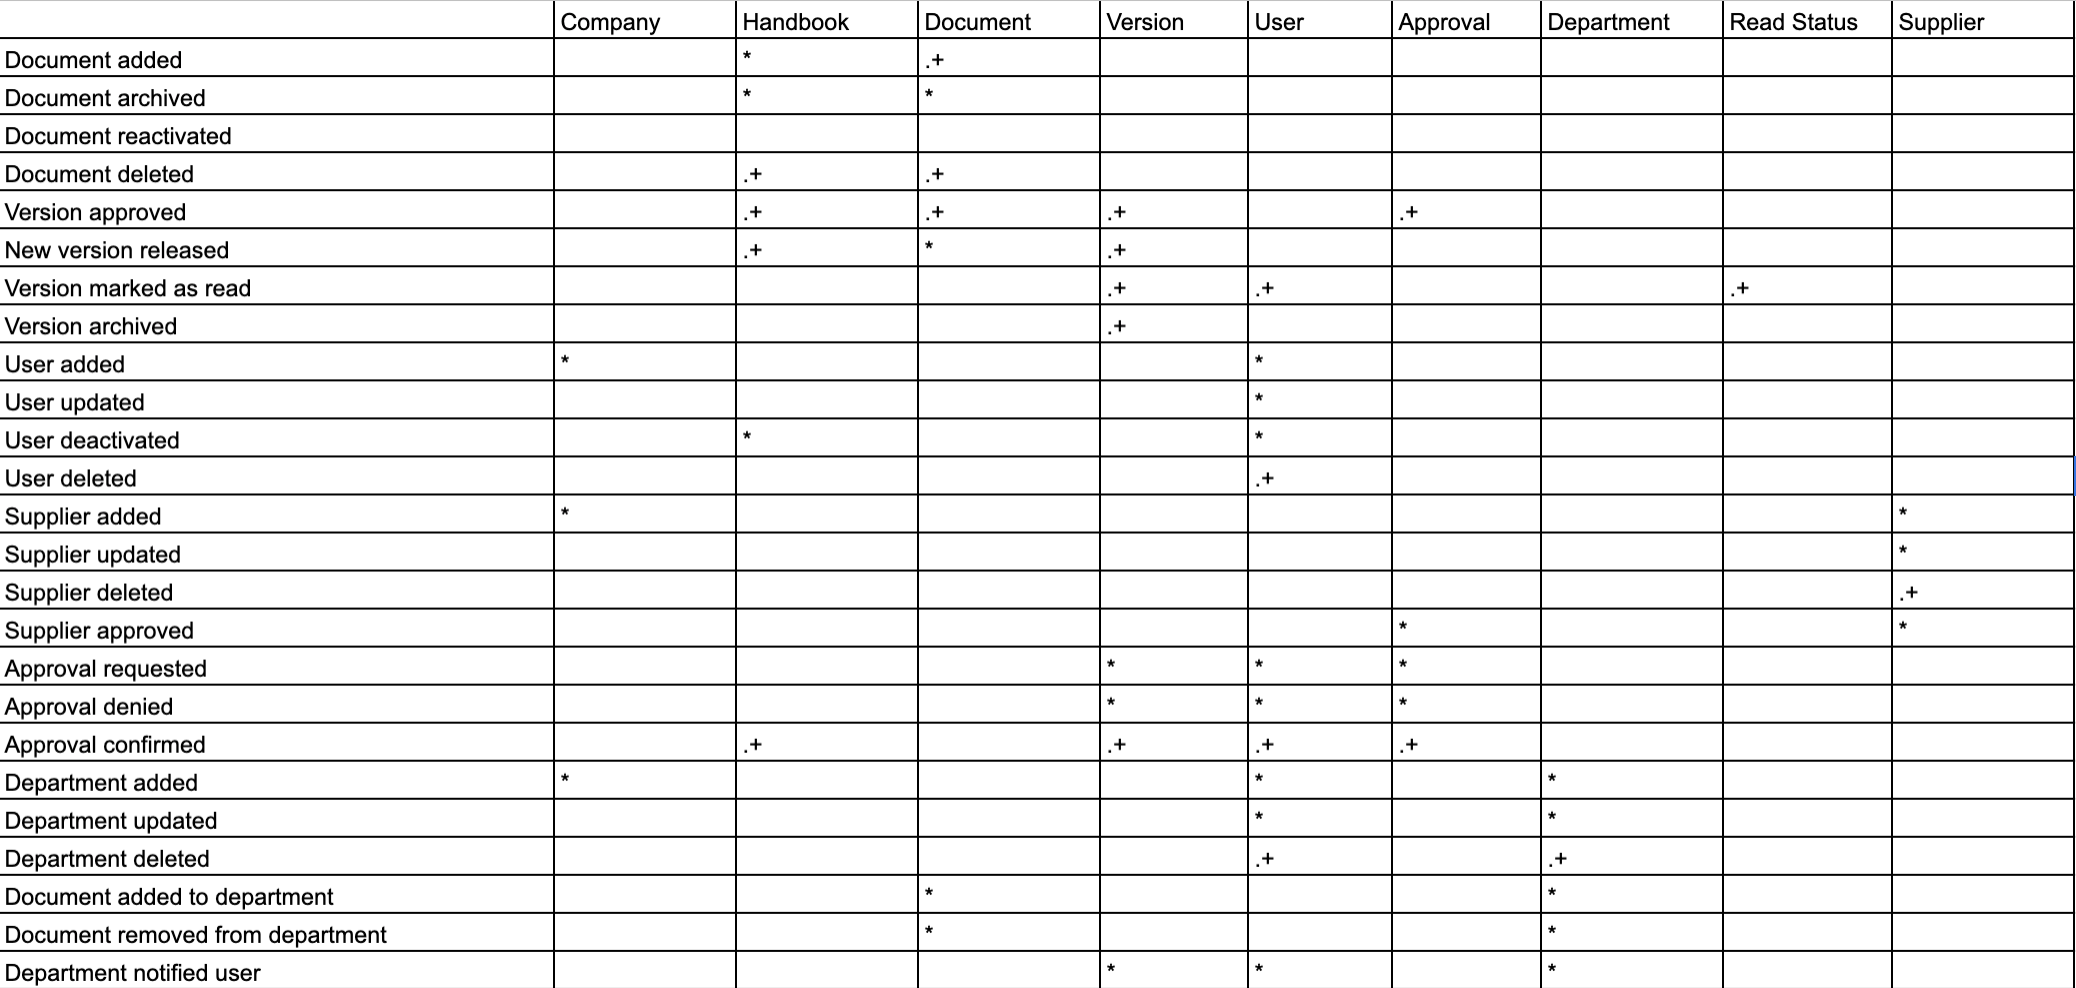
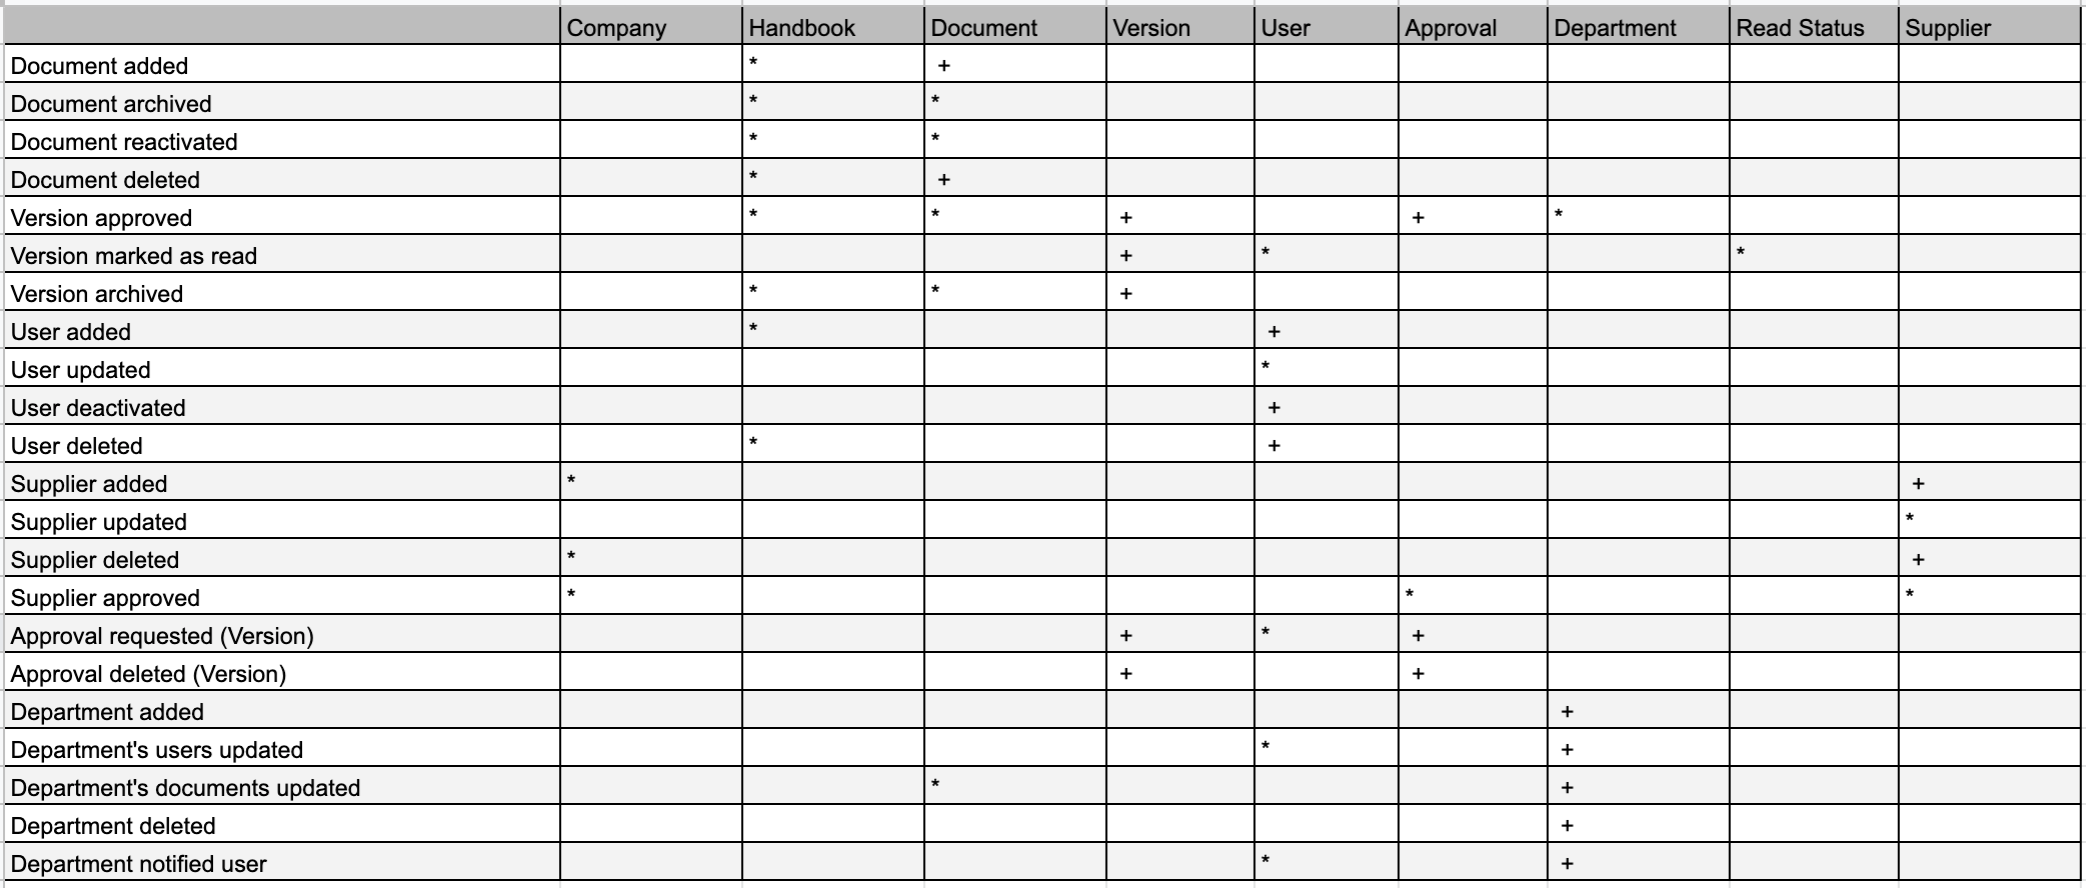
Class and event section and event table are updated

Changed region(s): [[0.0, 0.0, 1.0, 1.0]]

diff --git a/Chapters/ProblemDomain/classandevent.tex b/Chapters/ProblemDomain/classandevent.tex
@@ -1,27 +1,27 @@
-\todo[inline]{Indsæt kilder}
+%\todo[inline]{Indsæt kilder}
 This section covers the problem domain analysis based on data gathering in form of the initial interview with Ipsen, see section x.
 The following subsections include the choice of the selected classes and events, the explanation of the structure between classes, and the description of the behavior patterns through state-chart diagram.
 
 \section{Classes and events}
 The following subsections explore the potential class and event candidates as well as the thought process behind it.
 The generated class and event candidates will be systematic selected to represent the problem domain with regard to relevance and that they satisfy the system definition.
-The process of systematically select classes and events are based on the following criteria found in Object Oriented Design \& Analysis (OOA)\&D \citep[p.~63-67]{Rod-Aalborg} .
-\todo[inline]{Kilden skal nok formeteres andreledes, men jeg ved ikke helt hvordan}
+The process of systematically select classes and events are based on the following criteria found in Object Oriented Design \& Analysis (OOA)\&D \citep[p.~63-67]{Rod-Aalborg}.
+%\todo[inline]{Kilden skal nok formeteres andreledes, men jeg ved ikke helt hvordan}
 
 \subsection{Classes}
-According to OOA\&D a class is defined as:
+According to OOA\&D a class is defined as \citep[p.~55]{Rod-Aalborg}.:
+
 “A description of a collection of objects sharing structure, behavioral pattern, and attributes.”
 % Henrik: Måske lav det til en definition med \begin{defn}noget tekst her\end{defn}
 % se hvordan Anna har gjort i PACT analyse afsnit - men hvor?
 
 The questions below help to evaluate a class if those are affirmative. \citep[p.~62]{Rod-Aalborg}
 \begin{itemize}
-	\item Can you identify objects from the class?
+	\item "Can you identify objects from the class?
 	\item Does the class contain unique information?
 	\item Does the class encompass multiple objects?
-	\item Does the class have a suitable and manageable number of events?
+	\item Does the class have a suitable and manageable number of events?"
 \end{itemize}
-%(citerer direkte fra bogen - er det ok?)
 
 \subsubsection{Class candidates} 
 \begin{tabular}{l l}
@@ -85,26 +85,26 @@ Qualified classes:
 
 \subsection{Events}
 
-According to OOA\&D an event is defined as\citep[p.~53]{Rod-Aalborg}:
+According to OOA\&D an event is defined as \citep[p.~53]{Rod-Aalborg}:
 
-``An instantaneous incident involving one or more objects.''
+"An instantaneous incident involving one or more objects.''
 % Henrik: Måske også lav dette til en definition med \begin{defn}
 
 Once again the questions below help to evaluate an event if those are affirmative\citep[p.~65]{Rod-Aalborg}.
 \begin{itemize}
-	\item Is the event instantaneous?
+	\item "Is the event instantaneous?
 	\item Is the event atomic?
-	\item Can the event be identified when it happens?
+	\item Can the event be identified when it happens?"
 \end{itemize}
 
 \subsubsection{Event candidates}
 \textbf{Document added} - when a document is created\\
-\textbf{Document updated} - when an existing document's information is updated\\
-\textbf{Document archived} - when a document is not relevant for a company at the present time and need be removed from the handbook\\
+%\textbf{Document updated} - when an existing document's information is updated\\
+\textbf{Document archived} - this event occurs when a document only consist of one version which is archived therefore the document is also archived. Or for instance a document is not relevant for a company at the present time and need be removed from the handbook\\
 \textbf{Document reactivated} - when a document is relevant for the company once again and need to be accessible in the handbook\\
-\textbf{Document deleted} - when a retention period has expired for an archived document then it will be possible to delete the document in the system or an administrator accidentally created incorrect content document in the system\\
-\textbf{Version approved}  - when a version has been approved\\ 
-\textbf{New version released} - when a new version has been approved and the system ensure that it is available in the handbook\\
+\textbf{Document deleted} - when a retention period has expired for an archived document or if an administrator accidentally created incorrect content document in the system then it is possible to delete the document in the system\\
+\textbf{Version approved}  - when a version has been approved and the system ensure that it is available in the handbook\\ 
+\textbf{New version released} -  when a new version made available in the handbook\\
 \textbf{Version archived} - when a handbook contains a new approved version then the system need to ensure that a previous version is archived\\
 \textbf{Version marked as read} - when a user has verified that the newest version has been read\\
 \textbf{User added} - when an administrator created a user\\
@@ -116,14 +116,13 @@ Once again the questions below help to evaluate an event if those are affirmativ
 \textbf{Supplier updated} - when an existing supplier's information has been updated\\
 \textbf{Supplier deleted} - when a supplier has been removed from the system\\
 \textbf{Supplier approved} - when a supplier's document has been approved\\
-\textbf{Approval requested} - when a new version is created and the approval requested is sent to other users (approver) in the system\\
-\textbf{Approval confirmed} - when an approval is rejected by one approver\\
-\textbf{Approval denied} - when an approval is confirmed by every approver\\
+\textbf{Approval requested (Version)} - when a new version is created and the approval requested is sent to other users (approver) in the system\\
+\textbf{Approval confirmed (Version)} - when an approval is confirmed by one approver\\
+\textbf{Approval denied (Version)} - when an approval is rejected by every approver\\
 \textbf{Department added} - when a department is created\\
-\textbf{Department updated} - when an existing department's information is updated\\
 \textbf{Department deleted} - when an existing department is removed from system\\
-\textbf{Document added to department} - when associated a document to a department. This way a department will only have access to relevant documents\\
-\textbf{Document removed from department} - when a associate document is removed from a department which means the department no longer have access to the document\\
+\textbf{Department's users updated} - when associating or removing a user to a department\\
+\textbf{Department's documents updated} - when associating or removing a document to a department. This way a department will only have access to relevant documents\\
 \textbf{Department notified user} - when a associated user received a notification when a new version is released\\ 
 \textbf{Document printed} - when a document is printed\\
 
@@ -133,32 +132,44 @@ The selection and deselection of these candidates will be explained, and the eve
 
 \textbf{Document added} event is qualified reasoned that a document object must be created first before it has a version object added. 
 
-\textbf{Document updated} event is not qualified since it is a version that are updated which is the same as \textbf{new version released}  event.
-
 \textbf{Document archived} event is qualified because it is an important functionality to archive expired documents for number of years according to ISO 9001 document management requirements. 
 
-\textbf{Document reactivated} event is qualified since if the system can  archive a document, it must also be able to reactivated and make it available in the handbook again. 
+\textbf{Document reactivated} event is qualified since if the system can archive a document, it must also be able to reactivated and make it available in the handbook again. 
 
 \textbf{Document deleted} is qualified for the reason that if an administrator made a mistake and added a wrong document then the delete option is useful. 
 
-\textbf{Version approved} and \textbf{new version released} events are qualified since it is important for the system to registered and keep track of the whether a document is complete with the approval process and whether it should be accessible in the handbook. 
+\textbf{Version approved} event are qualified since it is important for the system to registered and keep track of the whether a version is complete with the approval process and whether it should be accessible in the handbook. 
 
-\textbf{Version marked as read} event is qualified because it is crucial for the company register if employees had read and are up to date with the current standards. 
+\textbf{New version released} event is not qualified seeing that it is a duplicate of the \textbf{version approved} event. 
+
+\textbf{Version marked as read} event is qualified because it is crucial for the company to register if employees had read and are up to date with the current standards. 
 
 \textbf{Version archived} event is qualified for the same reason as \textbf{document archived} event.
 
-\textbf{User added}, \textbf{user updated}, \textbf{user deactivated}, \textbf{user reactivated} and \textbf{user deleted} events are all qualified as an administrator need to manage company's user list. 
+\textbf{User added}, \textbf{user updated} and \textbf{user deleted} events are all qualified as an administrator need to manage company's user list. 
+
+\textbf{User deactivated} event is qualified seeing that it is a requirement that the system still are able to report who had read a specific version. A deactivated user object will only contain user's name while the rest information are erased. 
+
+\textbf{User reactivated} event is not qualified, if a company wishes to reemploy a worker then there must create a new user in the system. 
+
+% skal nok have en bedre forklaring hvorfor user reactivated ikke er kvalificeret...
 
 \textbf{Supplier added}, \textbf{supplier updated},  \textbf{supplier deleted} and \textbf{supplier approved} events are all qualified since suppliers need to be manage by an administrator whether they are approved or when to be reapproved. 
 
-\textbf{Approval requested}, \textbf{approval denied}, \textbf{approval confirmed} events are all qualified seeing that it is important part of the system definition that the system must support an approval process before release a new version in the handbook. 
+\textbf{Approval requested} event are qualified seeing that it is important part of the system definition that the system must support an approval process and people that need to approve new version find the notification useful. 
 
-\textbf{Department added}, \textbf{department updated}, \textbf{department deleted} events are qualified since through department will it be possible to associated a specific department to those relevant documents. 
+ \textbf{Approval denied (Version)} event is not qualified as Ipsen does not desire this functionality because approver himself will contact Ipsen directly and afterwards a new approval request is made and the previous approval request will be deleted. \textbf{Approval deleted (Version)} event is therefore qualified.
 
-\textbf{Document added to department}, \textbf{document removed from department}, \textbf{department notified user} events are qualified seeing that the system must be able to send notification to the correct user from a specific department that a associated document has released a new version. 
+\textbf{Approval confirmed} event is not qualified since its purpose is the same as \textbf{version approved} event.
+
+\textbf{Department added} and \textbf{department deleted} events are qualified seeing that it is important for the administrator to keep track of company's current departments. 
+
+\textbf{Department's documents updated} and \textbf{Department's users updated} events are qualified since it is vital to associate a user to a specific department and to associate department to the relevant documents. A user that are connected to a department are only able to access the documents that the department are associated with. This way the system ensure to only show the relevant document for each department. 
+
+\textbf{Department notified user} event are qualified seeing that the system must be able to send notification to the correct user from a specific department that a associated document has released a new version. 
 
 \textbf{Document printed} event is not qualified since the problem domain does not include controlling of printed documents.
-
+\newpage
 Qualified events:
 \begin{itemize} 
 	\item Document added
@@ -166,7 +177,6 @@ Qualified events:
 	\item Document reactivated
 	\item Document deleted
 	\item Version approved
-	\item New version released
 	\item Version marked as read
 	\item Version archived
 	\item User added
@@ -177,25 +187,23 @@ Qualified events:
 	\item Supplier updated
 	\item Supplier deleted
 	\item Supplier approved
-	\item Approval requested
-	\item Approval denied
-	\item Approval confirmed
+	\item Approval requested (Version)
+	\item Approval deleted (Version)
 	\item Department added
-	\item Department updated
 	\item Department deleted
-	\item Document added to department
-	\item Document removed from department
+	\item Department's users updated
+	\item Department's documents updated
 	\item Department notified user
 \end{itemize}
 
 \section{Event table}
-The result of the selected qualified events and classes is an event table representing their relations. An event that can occur up to one time indicates with a plus symbol +, and an event that can occur multiple times indicates with star symbol *.
+The result of the selected qualified events and classes is an event table representing their relations, see \cref{fig:eventtable}. An event that can occur up to one time indicates with a plus symbol +, and an event that can occur multiple times indicates with star symbol *.
 
 \begin{figure}[H]
 	\centering
-	\includegraphics[width=0.95\textwidth]{billeder/Event_table.png}
+	\includegraphics[width=0.95\textwidth]{billeder/event_table.png}
 	\caption{\textit{Event table
-	}\label{fig:ClassDiagram}}
+	}\label{fig:eventtable}}
 \end{figure}
 
 % ændre figure til tabel.. how?
